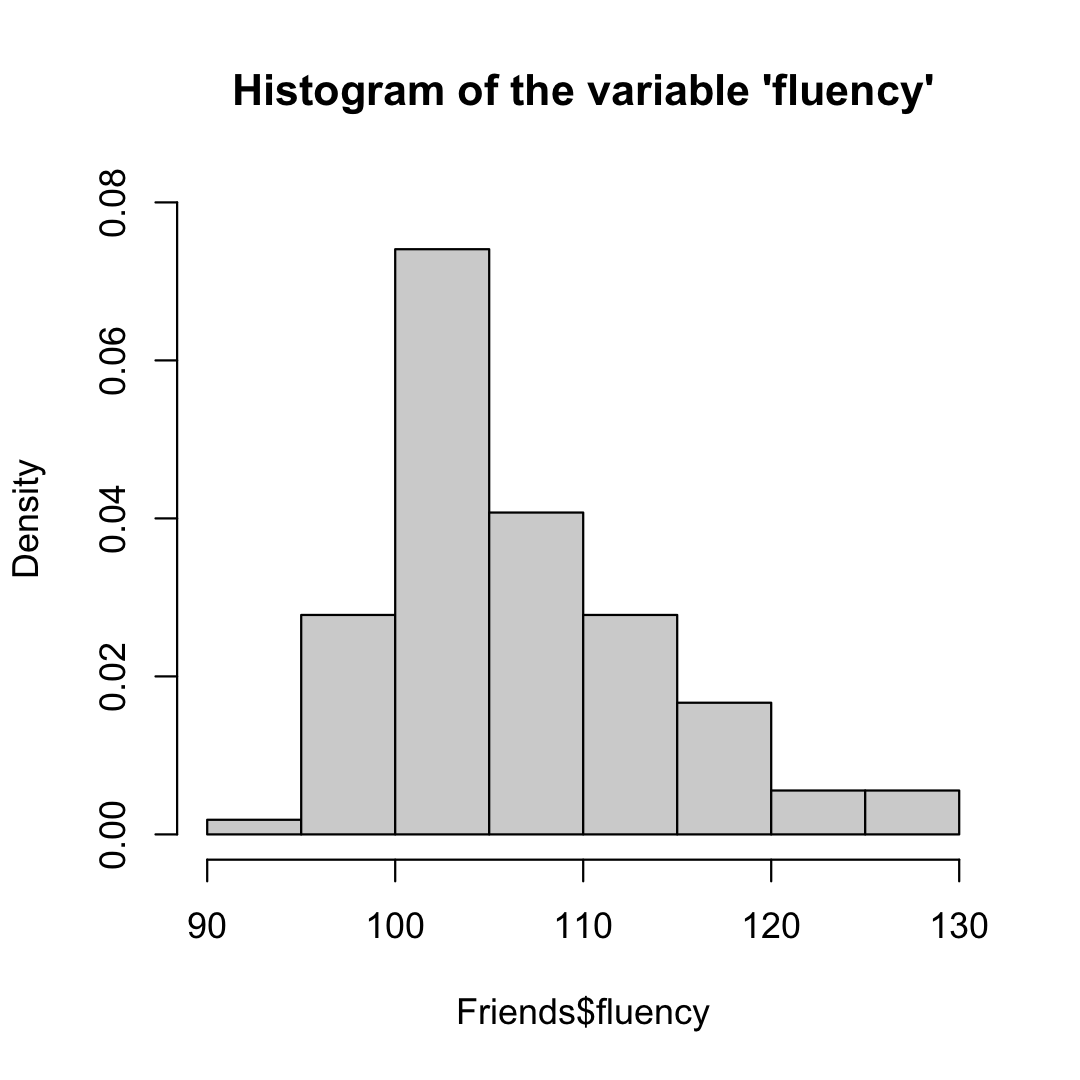
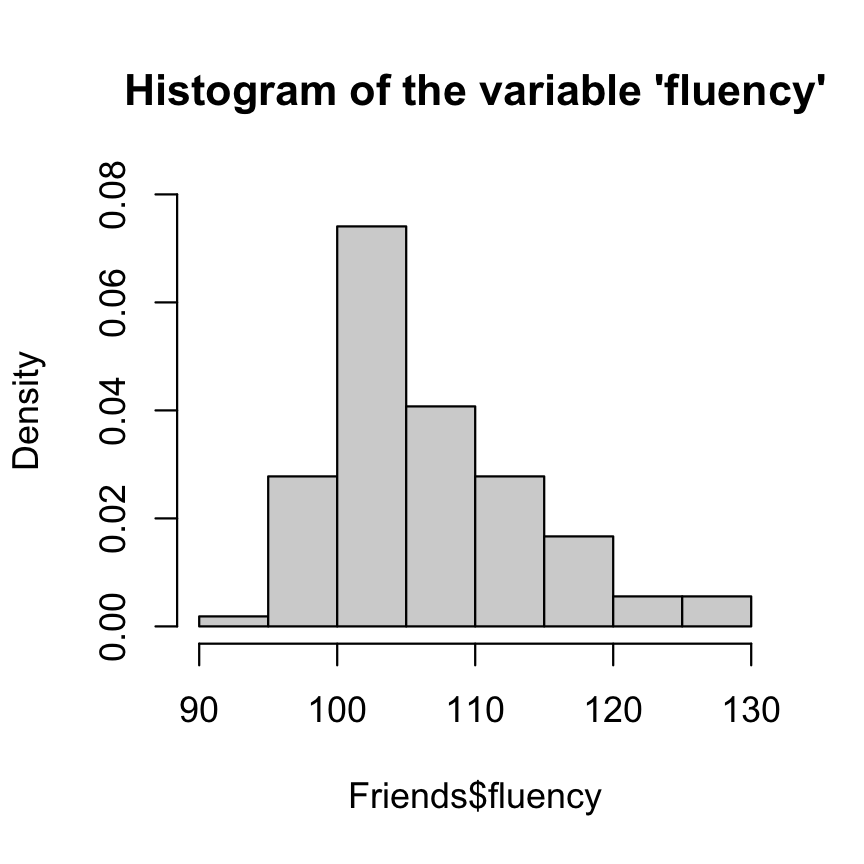
update

diff --git a/Presentations/Part4/slides_part-4.html b/Presentations/Part4/slides_part-4.html
@@ -143,7 +143,7 @@ hist(
   ) 
 ```
 
-&lt;img src="slides_part-4_files/figure-html/unnamed-chunk-5-1.png" width="360" style="display: block; margin: auto;" /&gt;
+&lt;img src="slides_part-4_files/figure-html/unnamed-chunk-5-1.png" width="288" style="display: block; margin: auto;" /&gt;
 ]
 ]
 
@@ -411,103 +411,103 @@ data("penguins")
  &lt;/thead&gt;
 &lt;tbody&gt;
   &lt;tr&gt;
-   &lt;td style="text-align:left;"&gt; Adelie &lt;/td&gt;
+   &lt;td style="text-align:left;"&gt; Gentoo &lt;/td&gt;
    &lt;td style="text-align:left;"&gt; Biscoe &lt;/td&gt;
-   &lt;td style="text-align:right;"&gt; 36.5 &lt;/td&gt;
-   &lt;td style="text-align:right;"&gt; 16.6 &lt;/td&gt;
-   &lt;td style="text-align:right;"&gt; 181 &lt;/td&gt;
-   &lt;td style="text-align:right;"&gt; 2850 &lt;/td&gt;
+   &lt;td style="text-align:right;"&gt; 47.4 &lt;/td&gt;
+   &lt;td style="text-align:right;"&gt; 14.6 &lt;/td&gt;
+   &lt;td style="text-align:right;"&gt; 212 &lt;/td&gt;
+   &lt;td style="text-align:right;"&gt; 4725 &lt;/td&gt;
+   &lt;td style="text-align:left;"&gt; female &lt;/td&gt;
+   &lt;td style="text-align:right;"&gt; 2009 &lt;/td&gt;
+  &lt;/tr&gt;
+  &lt;tr&gt;
+   &lt;td style="text-align:left;"&gt; Gentoo &lt;/td&gt;
+   &lt;td style="text-align:left;"&gt; Biscoe &lt;/td&gt;
+   &lt;td style="text-align:right;"&gt; 50.0 &lt;/td&gt;
+   &lt;td style="text-align:right;"&gt; 15.3 &lt;/td&gt;
+   &lt;td style="text-align:right;"&gt; 220 &lt;/td&gt;
+   &lt;td style="text-align:right;"&gt; 5550 &lt;/td&gt;
+   &lt;td style="text-align:left;"&gt; male &lt;/td&gt;
+   &lt;td style="text-align:right;"&gt; 2007 &lt;/td&gt;
+  &lt;/tr&gt;
+  &lt;tr&gt;
+   &lt;td style="text-align:left;"&gt; Adelie &lt;/td&gt;
+   &lt;td style="text-align:left;"&gt; Dream &lt;/td&gt;
+   &lt;td style="text-align:right;"&gt; 40.3 &lt;/td&gt;
+   &lt;td style="text-align:right;"&gt; 18.5 &lt;/td&gt;
+   &lt;td style="text-align:right;"&gt; 196 &lt;/td&gt;
+   &lt;td style="text-align:right;"&gt; 4350 &lt;/td&gt;
+   &lt;td style="text-align:left;"&gt; male &lt;/td&gt;
+   &lt;td style="text-align:right;"&gt; 2008 &lt;/td&gt;
+  &lt;/tr&gt;
+  &lt;tr&gt;
+   &lt;td style="text-align:left;"&gt; Gentoo &lt;/td&gt;
+   &lt;td style="text-align:left;"&gt; Biscoe &lt;/td&gt;
+   &lt;td style="text-align:right;"&gt; 52.2 &lt;/td&gt;
+   &lt;td style="text-align:right;"&gt; 17.1 &lt;/td&gt;
+   &lt;td style="text-align:right;"&gt; 228 &lt;/td&gt;
+   &lt;td style="text-align:right;"&gt; 5400 &lt;/td&gt;
+   &lt;td style="text-align:left;"&gt; male &lt;/td&gt;
+   &lt;td style="text-align:right;"&gt; 2009 &lt;/td&gt;
+  &lt;/tr&gt;
+  &lt;tr&gt;
+   &lt;td style="text-align:left;"&gt; Gentoo &lt;/td&gt;
+   &lt;td style="text-align:left;"&gt; Biscoe &lt;/td&gt;
+   &lt;td style="text-align:right;"&gt; 49.4 &lt;/td&gt;
+   &lt;td style="text-align:right;"&gt; 15.8 &lt;/td&gt;
+   &lt;td style="text-align:right;"&gt; 216 &lt;/td&gt;
+   &lt;td style="text-align:right;"&gt; 4925 &lt;/td&gt;
+   &lt;td style="text-align:left;"&gt; male &lt;/td&gt;
+   &lt;td style="text-align:right;"&gt; 2009 &lt;/td&gt;
+  &lt;/tr&gt;
+  &lt;tr&gt;
+   &lt;td style="text-align:left;"&gt; Adelie &lt;/td&gt;
+   &lt;td style="text-align:left;"&gt; Dream &lt;/td&gt;
+   &lt;td style="text-align:right;"&gt; 35.6 &lt;/td&gt;
+   &lt;td style="text-align:right;"&gt; 17.5 &lt;/td&gt;
+   &lt;td style="text-align:right;"&gt; 191 &lt;/td&gt;
+   &lt;td style="text-align:right;"&gt; 3175 &lt;/td&gt;
+   &lt;td style="text-align:left;"&gt; female &lt;/td&gt;
+   &lt;td style="text-align:right;"&gt; 2009 &lt;/td&gt;
+  &lt;/tr&gt;
+  &lt;tr&gt;
+   &lt;td style="text-align:left;"&gt; Chinstrap &lt;/td&gt;
+   &lt;td style="text-align:left;"&gt; Dream &lt;/td&gt;
+   &lt;td style="text-align:right;"&gt; 51.3 &lt;/td&gt;
+   &lt;td style="text-align:right;"&gt; 18.2 &lt;/td&gt;
+   &lt;td style="text-align:right;"&gt; 197 &lt;/td&gt;
+   &lt;td style="text-align:right;"&gt; 3750 &lt;/td&gt;
+   &lt;td style="text-align:left;"&gt; male &lt;/td&gt;
+   &lt;td style="text-align:right;"&gt; 2007 &lt;/td&gt;
+  &lt;/tr&gt;
+  &lt;tr&gt;
+   &lt;td style="text-align:left;"&gt; Adelie &lt;/td&gt;
+   &lt;td style="text-align:left;"&gt; Dream &lt;/td&gt;
+   &lt;td style="text-align:right;"&gt; 34.0 &lt;/td&gt;
+   &lt;td style="text-align:right;"&gt; 17.1 &lt;/td&gt;
+   &lt;td style="text-align:right;"&gt; 185 &lt;/td&gt;
+   &lt;td style="text-align:right;"&gt; 3400 &lt;/td&gt;
    &lt;td style="text-align:left;"&gt; female &lt;/td&gt;
    &lt;td style="text-align:right;"&gt; 2008 &lt;/td&gt;
   &lt;/tr&gt;
   &lt;tr&gt;
    &lt;td style="text-align:left;"&gt; Gentoo &lt;/td&gt;
    &lt;td style="text-align:left;"&gt; Biscoe &lt;/td&gt;
-   &lt;td style="text-align:right;"&gt; 45.1 &lt;/td&gt;
-   &lt;td style="text-align:right;"&gt; 14.5 &lt;/td&gt;
-   &lt;td style="text-align:right;"&gt; 215 &lt;/td&gt;
-   &lt;td style="text-align:right;"&gt; 5000 &lt;/td&gt;
+   &lt;td style="text-align:right;"&gt; 45.3 &lt;/td&gt;
+   &lt;td style="text-align:right;"&gt; 13.8 &lt;/td&gt;
+   &lt;td style="text-align:right;"&gt; 208 &lt;/td&gt;
+   &lt;td style="text-align:right;"&gt; 4200 &lt;/td&gt;
    &lt;td style="text-align:left;"&gt; female &lt;/td&gt;
-   &lt;td style="text-align:right;"&gt; 2007 &lt;/td&gt;
+   &lt;td style="text-align:right;"&gt; 2008 &lt;/td&gt;
   &lt;/tr&gt;
   &lt;tr&gt;
    &lt;td style="text-align:left;"&gt; Gentoo &lt;/td&gt;
    &lt;td style="text-align:left;"&gt; Biscoe &lt;/td&gt;
-   &lt;td style="text-align:right;"&gt; 42.9 &lt;/td&gt;
-   &lt;td style="text-align:right;"&gt; 13.1 &lt;/td&gt;
-   &lt;td style="text-align:right;"&gt; 215 &lt;/td&gt;
-   &lt;td style="text-align:right;"&gt; 5000 &lt;/td&gt;
-   &lt;td style="text-align:left;"&gt; female &lt;/td&gt;
-   &lt;td style="text-align:right;"&gt; 2007 &lt;/td&gt;
-  &lt;/tr&gt;
-  &lt;tr&gt;
-   &lt;td style="text-align:left;"&gt; Gentoo &lt;/td&gt;
-   &lt;td style="text-align:left;"&gt; Biscoe &lt;/td&gt;
-   &lt;td style="text-align:right;"&gt; NA &lt;/td&gt;
-   &lt;td style="text-align:right;"&gt; NA &lt;/td&gt;
-   &lt;td style="text-align:right;"&gt; NA &lt;/td&gt;
-   &lt;td style="text-align:right;"&gt; NA &lt;/td&gt;
-   &lt;td style="text-align:left;"&gt; NA &lt;/td&gt;
-   &lt;td style="text-align:right;"&gt; 2009 &lt;/td&gt;
-  &lt;/tr&gt;
-  &lt;tr&gt;
-   &lt;td style="text-align:left;"&gt; Chinstrap &lt;/td&gt;
-   &lt;td style="text-align:left;"&gt; Dream &lt;/td&gt;
-   &lt;td style="text-align:right;"&gt; 49.2 &lt;/td&gt;
-   &lt;td style="text-align:right;"&gt; 18.2 &lt;/td&gt;
-   &lt;td style="text-align:right;"&gt; 195 &lt;/td&gt;
-   &lt;td style="text-align:right;"&gt; 4400 &lt;/td&gt;
+   &lt;td style="text-align:right;"&gt; 46.2 &lt;/td&gt;
+   &lt;td style="text-align:right;"&gt; 14.9 &lt;/td&gt;
+   &lt;td style="text-align:right;"&gt; 221 &lt;/td&gt;
+   &lt;td style="text-align:right;"&gt; 5300 &lt;/td&gt;
    &lt;td style="text-align:left;"&gt; male &lt;/td&gt;
-   &lt;td style="text-align:right;"&gt; 2007 &lt;/td&gt;
-  &lt;/tr&gt;
-  &lt;tr&gt;
-   &lt;td style="text-align:left;"&gt; Adelie &lt;/td&gt;
-   &lt;td style="text-align:left;"&gt; Torgersen &lt;/td&gt;
-   &lt;td style="text-align:right;"&gt; 38.6 &lt;/td&gt;
-   &lt;td style="text-align:right;"&gt; 21.2 &lt;/td&gt;
-   &lt;td style="text-align:right;"&gt; 191 &lt;/td&gt;
-   &lt;td style="text-align:right;"&gt; 3800 &lt;/td&gt;
-   &lt;td style="text-align:left;"&gt; male &lt;/td&gt;
-   &lt;td style="text-align:right;"&gt; 2007 &lt;/td&gt;
-  &lt;/tr&gt;
-  &lt;tr&gt;
-   &lt;td style="text-align:left;"&gt; Adelie &lt;/td&gt;
-   &lt;td style="text-align:left;"&gt; Torgersen &lt;/td&gt;
-   &lt;td style="text-align:right;"&gt; 39.0 &lt;/td&gt;
-   &lt;td style="text-align:right;"&gt; 17.1 &lt;/td&gt;
-   &lt;td style="text-align:right;"&gt; 191 &lt;/td&gt;
-   &lt;td style="text-align:right;"&gt; 3050 &lt;/td&gt;
-   &lt;td style="text-align:left;"&gt; female &lt;/td&gt;
-   &lt;td style="text-align:right;"&gt; 2009 &lt;/td&gt;
-  &lt;/tr&gt;
-  &lt;tr&gt;
-   &lt;td style="text-align:left;"&gt; Chinstrap &lt;/td&gt;
-   &lt;td style="text-align:left;"&gt; Dream &lt;/td&gt;
-   &lt;td style="text-align:right;"&gt; 47.0 &lt;/td&gt;
-   &lt;td style="text-align:right;"&gt; 17.3 &lt;/td&gt;
-   &lt;td style="text-align:right;"&gt; 185 &lt;/td&gt;
-   &lt;td style="text-align:right;"&gt; 3700 &lt;/td&gt;
-   &lt;td style="text-align:left;"&gt; female &lt;/td&gt;
-   &lt;td style="text-align:right;"&gt; 2007 &lt;/td&gt;
-  &lt;/tr&gt;
-  &lt;tr&gt;
-   &lt;td style="text-align:left;"&gt; Adelie &lt;/td&gt;
-   &lt;td style="text-align:left;"&gt; Torgersen &lt;/td&gt;
-   &lt;td style="text-align:right;"&gt; 41.4 &lt;/td&gt;
-   &lt;td style="text-align:right;"&gt; 18.5 &lt;/td&gt;
-   &lt;td style="text-align:right;"&gt; 202 &lt;/td&gt;
-   &lt;td style="text-align:right;"&gt; 3875 &lt;/td&gt;
-   &lt;td style="text-align:left;"&gt; male &lt;/td&gt;
-   &lt;td style="text-align:right;"&gt; 2009 &lt;/td&gt;
-  &lt;/tr&gt;
-  &lt;tr&gt;
-   &lt;td style="text-align:left;"&gt; Gentoo &lt;/td&gt;
-   &lt;td style="text-align:left;"&gt; Biscoe &lt;/td&gt;
-   &lt;td style="text-align:right;"&gt; 43.5 &lt;/td&gt;
-   &lt;td style="text-align:right;"&gt; 14.2 &lt;/td&gt;
-   &lt;td style="text-align:right;"&gt; 220 &lt;/td&gt;
-   &lt;td style="text-align:right;"&gt; 4700 &lt;/td&gt;
-   &lt;td style="text-align:left;"&gt; female &lt;/td&gt;
    &lt;td style="text-align:right;"&gt; 2008 &lt;/td&gt;
   &lt;/tr&gt;
 &lt;/tbody&gt;
